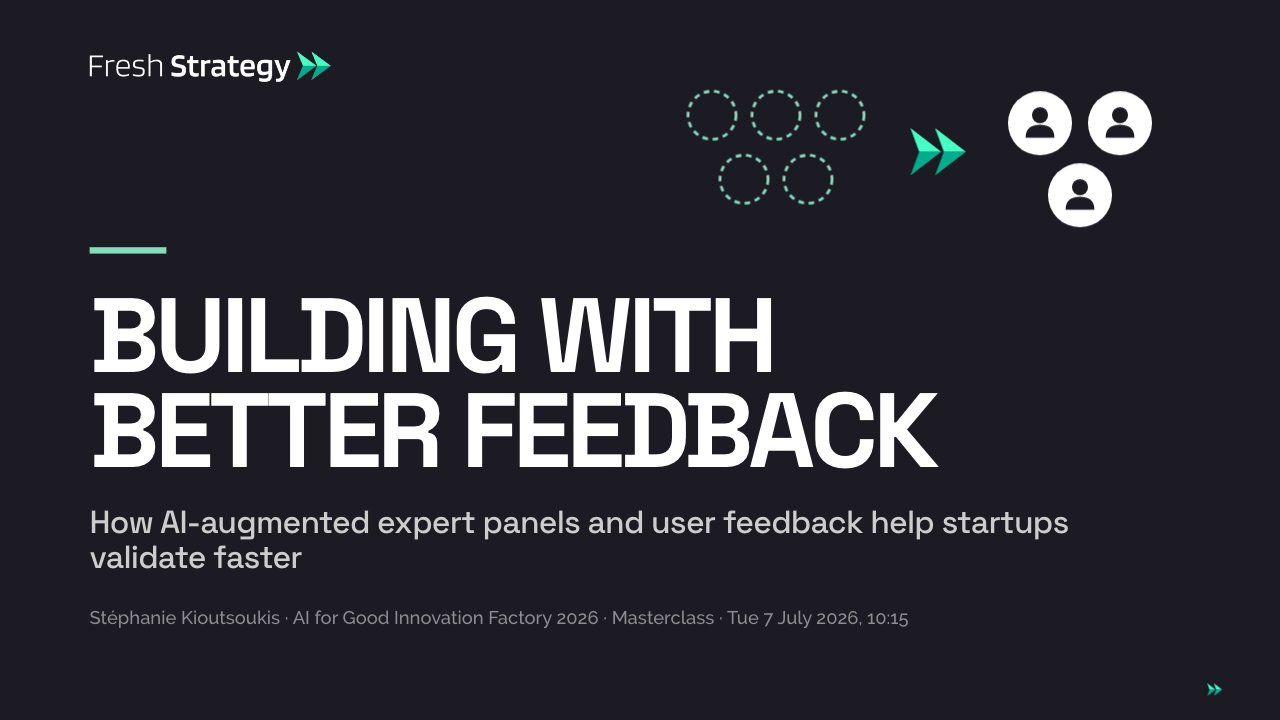
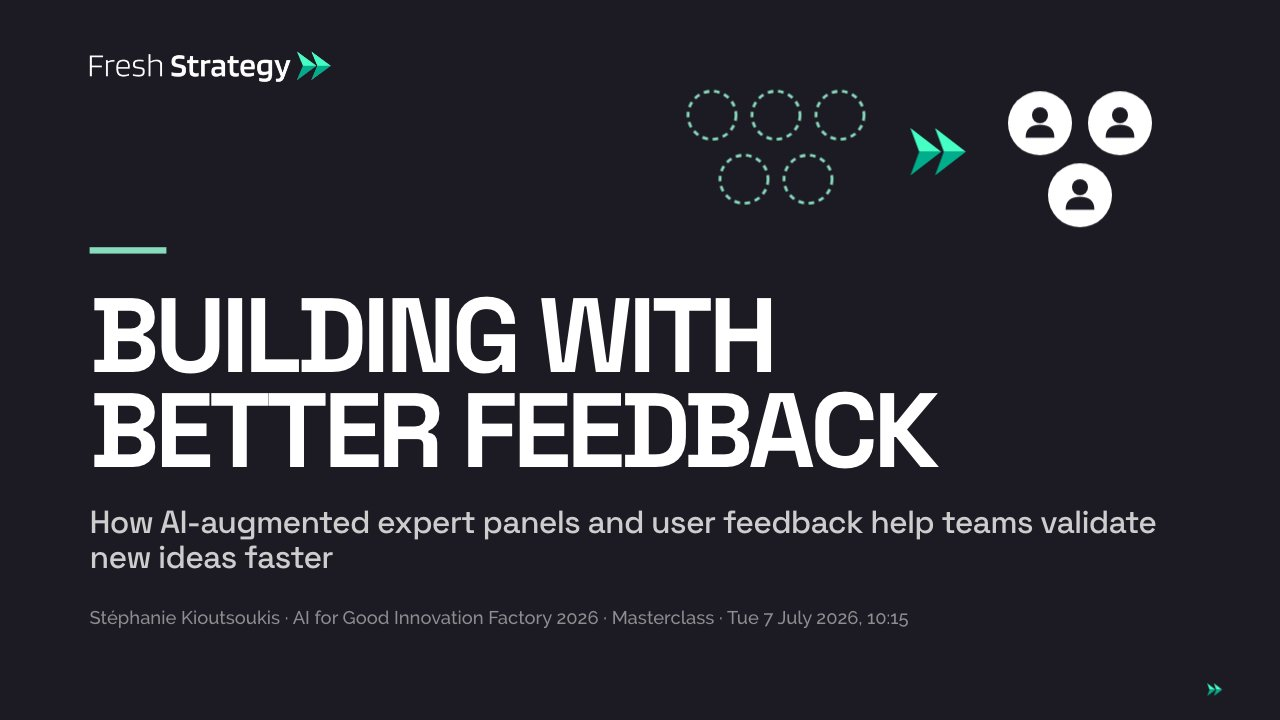
Building with better feedback: 'startup' reframed (subtitle, slides 3, 13, 25, 27), slide 26 chevrons removed, home tile + alt text refreshed

Changed region(s): [[0.7188, 0.7028, 0.9062, 0.7639], [0.0625, 0.7639, 0.2812, 0.7944]]

diff --git a/building-with-better-feedback/index.html b/building-with-better-feedback/index.html
@@ -3,7 +3,7 @@
 <head>
 <meta charset="utf-8">
 <meta name="viewport" content="width=device-width, initial-scale=1">
-<meta name="description" content="Building with better feedback: how AI-augmented expert panels and user feedback help startups validate faster. Masterclass by Stéphanie Kioutsoukis at the AI for Good Innovation Factory 2026.">
+<meta name="description" content="Building with better feedback: how AI-augmented expert panels and user feedback help teams validate new ideas faster. Masterclass by Stéphanie Kioutsoukis at the AI for Good Innovation Factory 2026.">
 <title>Building with better feedback | Fresh Strategy</title>
 <meta name="ft-home" content="/">
 <link rel="canonical" href="https://talks.freshstrategy.ai/building-with-better-feedback/">
@@ -14,7 +14,7 @@
 <meta property="og:site_name" content="Fresh Strategy">
 <meta property="og:url" content="https://talks.freshstrategy.ai/building-with-better-feedback/">
 <meta property="og:title" content="Building with better feedback | Fresh Strategy">
-<meta property="og:description" content="Building with better feedback: how AI-augmented expert panels and user feedback help startups validate faster. Masterclass by Stéphanie Kioutsoukis at the AI for Good Innovation Factory 2026.">
+<meta property="og:description" content="Building with better feedback: how AI-augmented expert panels and user feedback help teams validate new ideas faster. Masterclass by Stéphanie Kioutsoukis at the AI for Good Innovation Factory 2026.">
 <meta property="og:image" content="https://talks.freshstrategy.ai/home/building-with-better-feedback.jpg">
 <meta property="og:image:width" content="1280">
 <meta property="og:image:height" content="720">
@@ -223,12 +223,11 @@
 .mx tr th:last-child, .mx tr td:last-child { background: rgba(136,219,189,.16); }
 
 /* 26 lifecycle */
-.life { display: grid; grid-template-columns: 1fr 60px 1fr 60px 1fr 60px 1fr; align-items: start; }
+.life { display: grid; grid-template-columns: repeat(4, 1fr); gap: 48px; align-items: start; }
 .life > div { border-top: 8px solid var(--mint); padding-top: 24px; }
 .life > div:nth-child(1) { border-top-color: rgba(136,219,189,.45); }
 .life .eyebrow { font-size: 21px; }
 .life h3 { margin-top: 10px; white-space: nowrap; font: 700 48px/1 var(--head-font); color: var(--head); text-transform: uppercase; letter-spacing: -.03em; }
-.life .to { text-align: center; font-size: 36px; padding-top: 66px; }
 
 /* 28 takeaways */
 .tk li { font: 700 42px/1.15 var(--head-font); text-transform: uppercase; letter-spacing: -.025em; color: var(--head); }
@@ -264,7 +263,7 @@
   <div class="hero-text" style="width:1360px">
     <i class="hero-mark" data-anim="fade" style="--d:.1s"></i>
     <h1 class="hero-title" data-anim="rise" style="font-size:132px">Building with<br>better feedback</h1>
-    <p class="t-m" data-anim="fade" style="--d:.5s;margin-top:32px;font-size:40px;color:rgba(255,255,255,.78)">How AI-augmented expert panels and user feedback help startups validate faster</p>
+    <p class="t-m" data-anim="fade" style="--d:.5s;margin-top:32px;font-size:40px;color:rgba(255,255,255,.78)">How AI-augmented expert panels and user feedback help teams validate new ideas faster</p>
     <p class="t-small" data-anim="fade" style="--d:.8s;margin-top:36px;color:rgba(255,255,255,.5)">Stéphanie Kioutsoukis · AI for Good Innovation Factory 2026 · Masterclass · Tue 7 July 2026, 10:15</p>
   </div>
 </section>
@@ -485,7 +484,7 @@
       <text x="0" y="30" text-anchor="middle" font-family="Space Grotesk, sans-serif" font-weight="700" font-size="30" fill="#484A56">LEVEL</text>
     </svg>
     <div class="lvl" data-anim="fade" style="--d:.2s;left:1000px;top:200px"><h3>Near-Zero</h3>Generic prompt only<br>"Act as a customer"<br>No real context<br>No real data</div>
-    <div class="lvl" data-anim="fade" style="--d:.4s;left:1060px;top:520px"><h3>Low</h3>Startup context added<br>Pitch deck<br>Product description<br>Target segment<br>Founder assumptions</div>
+    <div class="lvl" data-anim="fade" style="--d:.4s;left:1060px;top:520px"><h3>Low</h3>Project context added<br>Pitch deck<br>Product description<br>Target segment<br>Founder assumptions</div>
     <div class="lvl c" data-anim="fade" style="--d:.6s;left:480px;top:712px"><h3>Low-Medium</h3>Specific persona conditioning · Role · geography · demographics<br>Current behaviour · Pain point · Decision criteria · "What this persona would not say"</div>
     <div class="lvl r" data-anim="fade" style="--d:.8s;left:100px;top:470px"><h3>Medium</h3>Real data grounding<br>5+ real interviews<br>Survey verbatims<br>CRM / waitlist data<br>Reviews, forums, support tickets<br>Direct customer quotes</div>
     <div class="lvl r is-key" data-anim="fade" style="--d:1s;left:130px;top:200px"><h3>High</h3><br>Human-calibrated persona<br>Top outputs checked with real people<br>Prompt + model version logged<br>Updated with new interviews<br>Used as hypothesis, not evidence</div>
@@ -672,11 +671,11 @@
     <table class="tbl is-small">
       <tr><th style="width:230px">Area</th><th style="width:380px">Description</th><th>Example</th><th style="width:300px">When</th></tr>
       <tr><td>AI Helper</td><td>Use GPT/Claude in chat to act as one synthetic expert, user, buyer, or blocker</td><td><i>Act as a hospital procurement lead. What would make you reject this pilot?</i></td><td>One-off checks, daily use, fast feedback</td></tr>
-      <tr><td>AI Playbook</td><td>Use a repeated method with saved prompts, Projects, or Custom GPTs</td><td><i>Run our pitch through the expert panel: clinician, buyer, regulator, investor, data/privacy expert.</i></td><td>Repeated startup reviews, accelerator sessions, founder workflows</td></tr>
+      <tr><td>AI Playbook</td><td>Use a repeated method with saved prompts, Projects, or Custom GPTs</td><td><i>Run our pitch through the expert panel: clinician, buyer, regulator, investor, data/privacy expert.</i></td><td>Repeated project reviews, accelerator sessions, founder workflows</td></tr>
       <tr><td>AI Automation Agent</td><td>Automate a specific persona task</td><td><i>Upload a pitch deck and generate: 5 synthetic personas, key objections, hypotheses, and real interview questions.</i></td><td>When the task is structured and repeated</td></tr>
       <tr><td>AI Augmentation Agent</td><td>Add synthetic persona insight into an ongoing validation process</td><td><i>After each real interview, update the persona assumptions and flag what still needs validation.</i></td><td>When humans need to stay in control but want faster synthesis</td></tr>
       <tr><td>AI Agent Team</td><td>Multiple AI agents simulate different perspectives and challenge each other</td><td><i>User agent, buyer agent, blocker agent, regulator agent, and investor agent review the same product and produce a joint risk map.</i></td><td>When decisions need several perspectives</td></tr>
-      <tr><td>AI Apps</td><td>Build a dedicated tool for persona-based validation</td><td><i>A startup validation app that turns a pitch deck into synthetic panels, testable hypotheses, interview guides, and evidence tracking.</i></td><td>When the workflow is valuable enough to productise</td></tr>
+      <tr><td>AI Apps</td><td>Build a dedicated tool for persona-based validation</td><td><i>A validation app that turns a pitch deck into synthetic panels, testable hypotheses, interview guides, and evidence tracking.</i></td><td>When the workflow is valuable enough to productise</td></tr>
     </table>
   </div>
 </section>
@@ -687,22 +686,19 @@
   <div class="body" style="top:380px">
     <div class="life">
       <div data-anim="fade" style="--d:.1s"><p class="eyebrow">Early stage</p><h3>Explore</h3></div>
-      <span class="to"><span class="chev"></span></span>
       <div data-anim="fade" style="--d:.35s"><p class="eyebrow">Product stage</p><h3>Stress-test</h3></div>
-      <span class="to"><span class="chev"></span></span>
       <div data-anim="fade" style="--d:.6s"><p class="eyebrow">GTM stage</p><h3>Sharpen</h3></div>
-      <span class="to"><span class="chev"></span></span>
       <div data-anim="fade" style="--d:.85s"><p class="eyebrow">Scaling stage</p><h3>De-risk</h3></div>
     </div>
   </div>
 </section>
 
 <!-- 27 -->
-<section class="slide" data-type="canvas" data-tone="paper" data-id="use-cases" data-title="Use cases during startup lifecycle">
-  <div class="ttl"><h2 class="t-m">Use cases during startup lifecycle</h2></div>
+<section class="slide" data-type="canvas" data-tone="paper" data-id="use-cases" data-title="Use cases across the innovation lifecycle">
+  <div class="ttl"><h2 class="t-m">Use cases across the innovation lifecycle</h2></div>
   <div class="body" style="top:190px">
     <table class="tbl" style="font-size:23px">
-      <tr><th style="width:290px">Startup stage</th><th>Best use of synthetic personas</th><th style="width:520px">What to validate with humans</th></tr>
+      <tr><th style="width:290px">Stage</th><th>Best use of synthetic personas</th><th style="width:520px">What to validate with humans</th></tr>
       <tr><td>Idea / discovery</td><td>Surface pains, assumptions, objections, stakeholder perspectives</td><td>Real problem, urgency, current workaround</td></tr>
       <tr><td>Product development</td><td>Stress-test features, UX, workflow fit, clinical / technical logic</td><td>Usability, workflow integration, adoption barriers</td></tr>
       <tr><td>MVP / pilot</td><td>Prepare pilot questions, anticipate blockers, compare use cases</td><td>Real usage, behaviour, pilot outcomes</td></tr>

diff --git a/index.html b/index.html
@@ -70,8 +70,8 @@ h1{margin:64px 0 72px;text-align:center;font:500 clamp(48px,6.2vw,88px)/1.03 'Sp
     <a class="talk" href="/ai-update-2026/" aria-label="AI Update 2026: what changed in a year, and how to get started">
       <img src="home/ai-update-2026.jpg" alt="Title slide: AI Update 2026, what changed in a year, and how to get started">
     </a>
-    <a class="talk" href="/building-with-better-feedback/" aria-label="Building with better feedback: how AI-augmented expert panels and user feedback help startups validate faster">
-      <img src="home/building-with-better-feedback.jpg" alt="Title slide: Building with better feedback, how AI-augmented expert panels and user feedback help startups validate faster">
+    <a class="talk" href="/building-with-better-feedback/" aria-label="Building with better feedback: how AI-augmented expert panels and user feedback help teams validate new ideas faster">
+      <img src="home/building-with-better-feedback.jpg" alt="Title slide: Building with better feedback, how AI-augmented expert panels and user feedback help teams validate new ideas faster">
     </a>
   </main>
 
